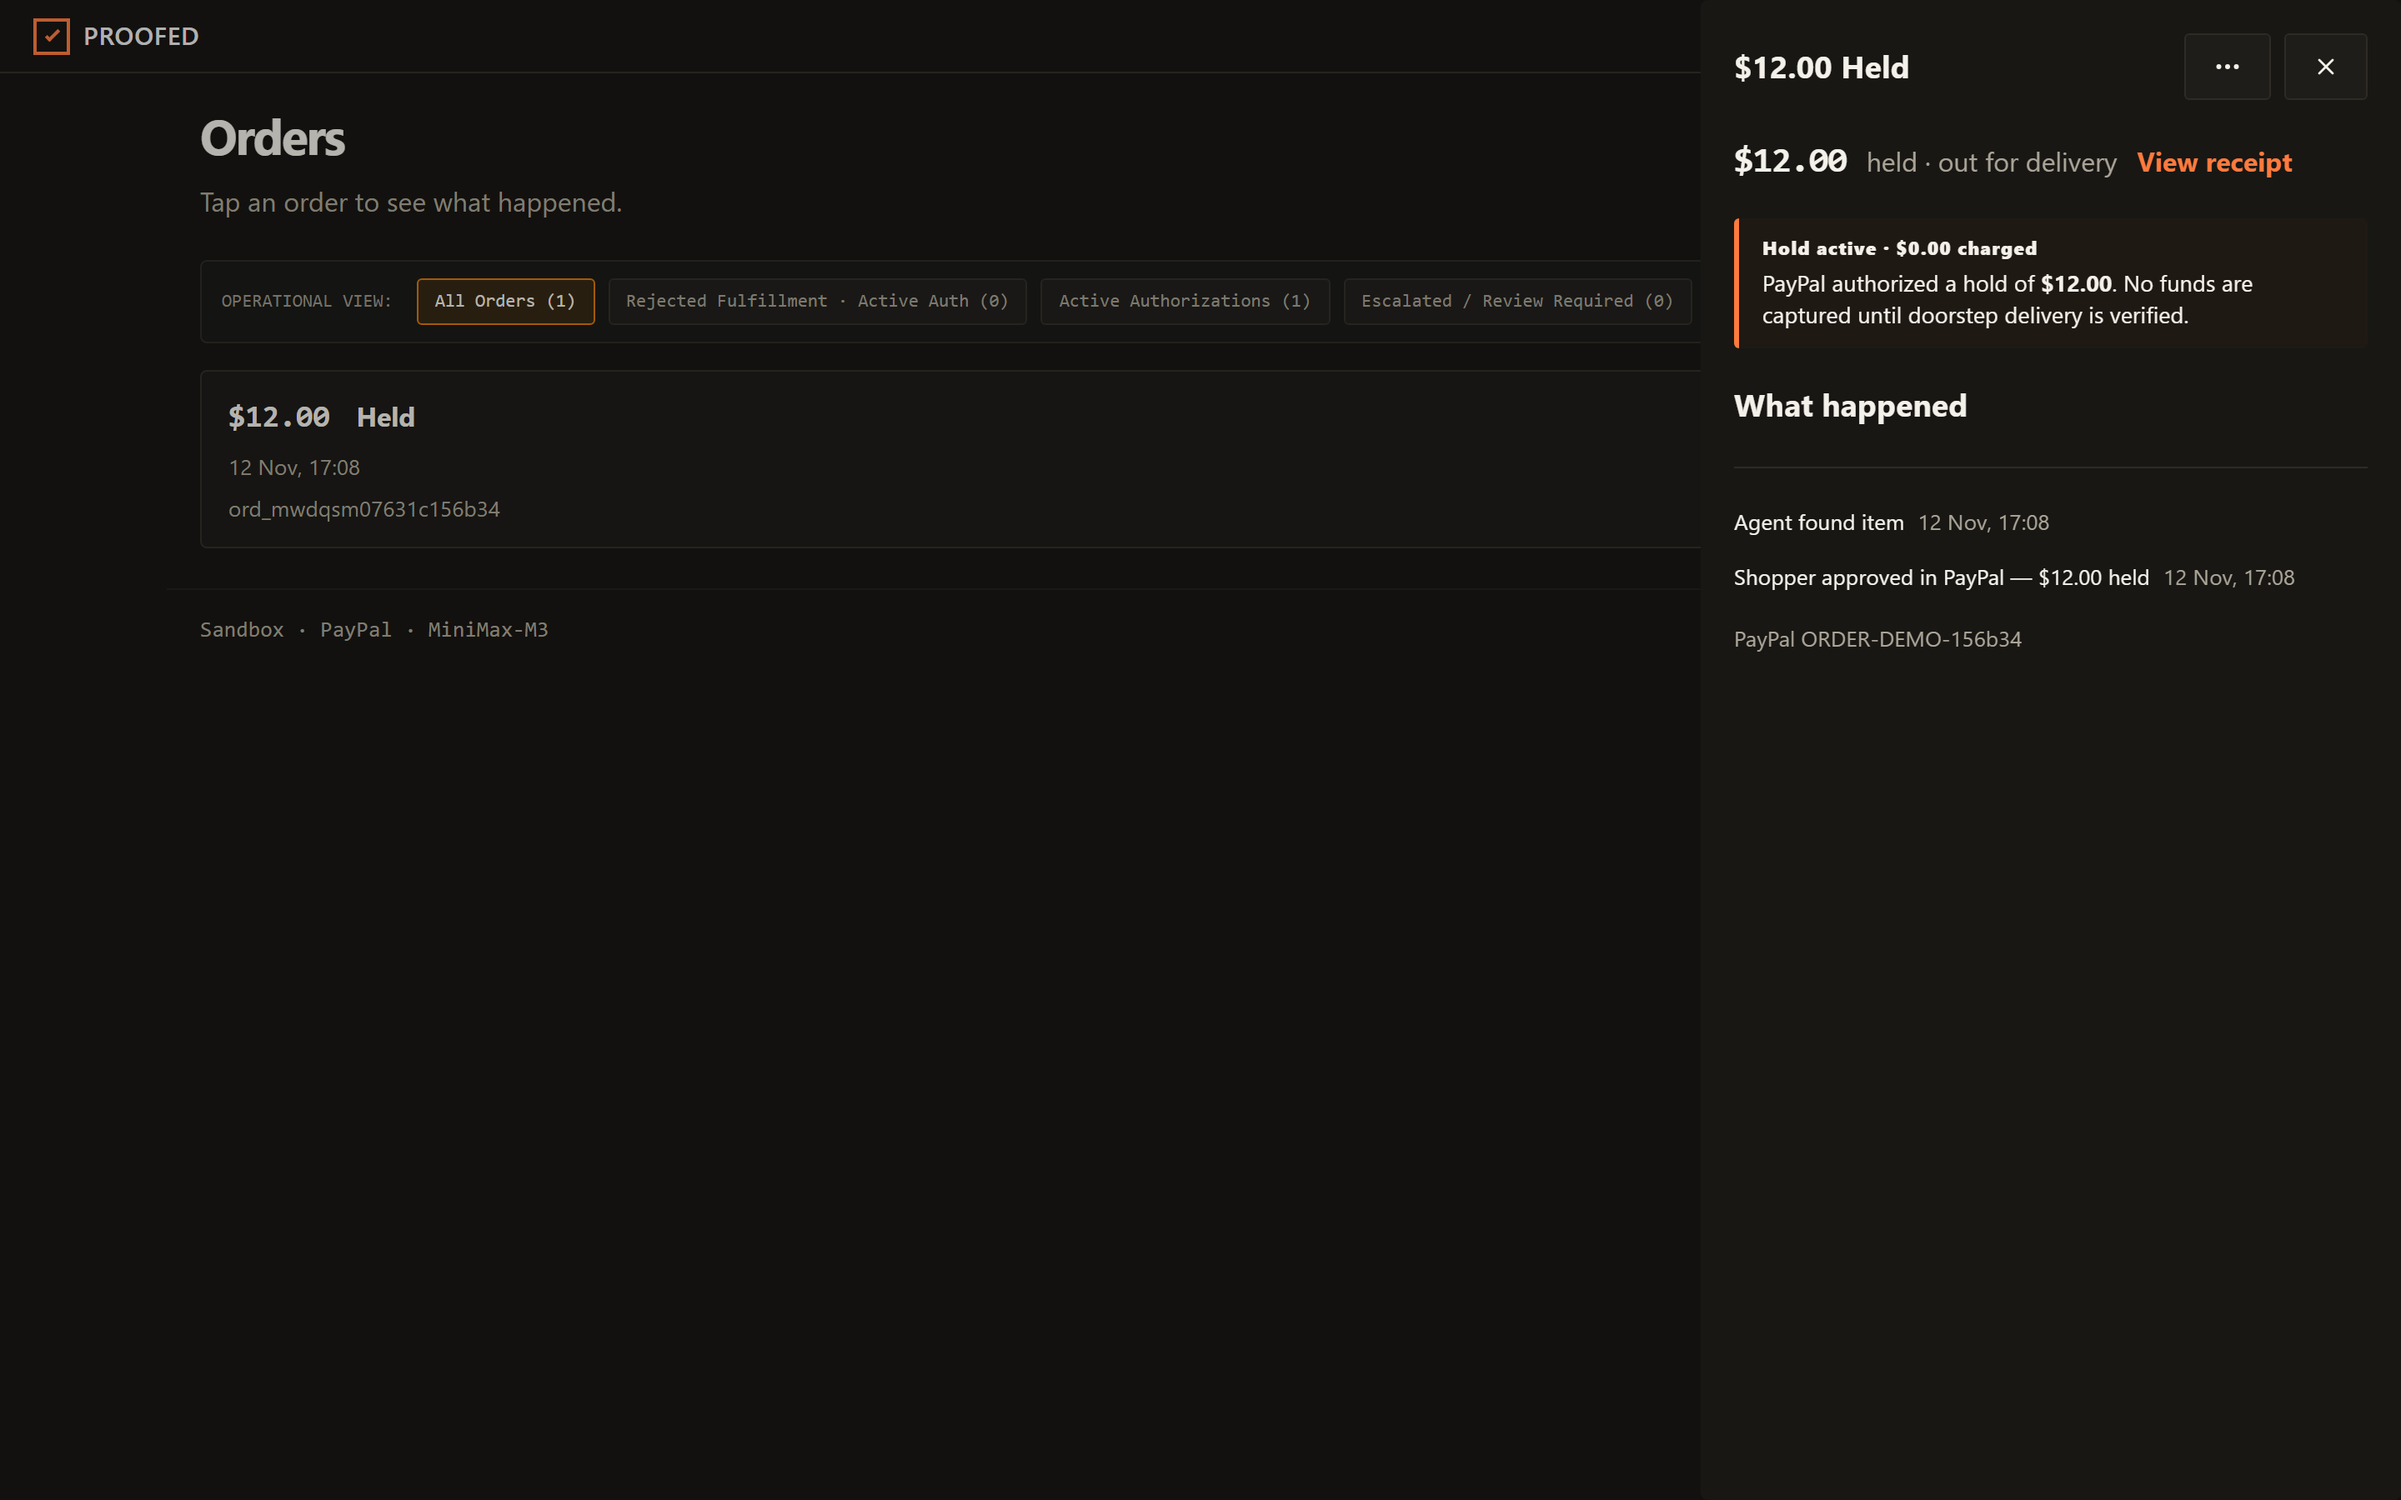
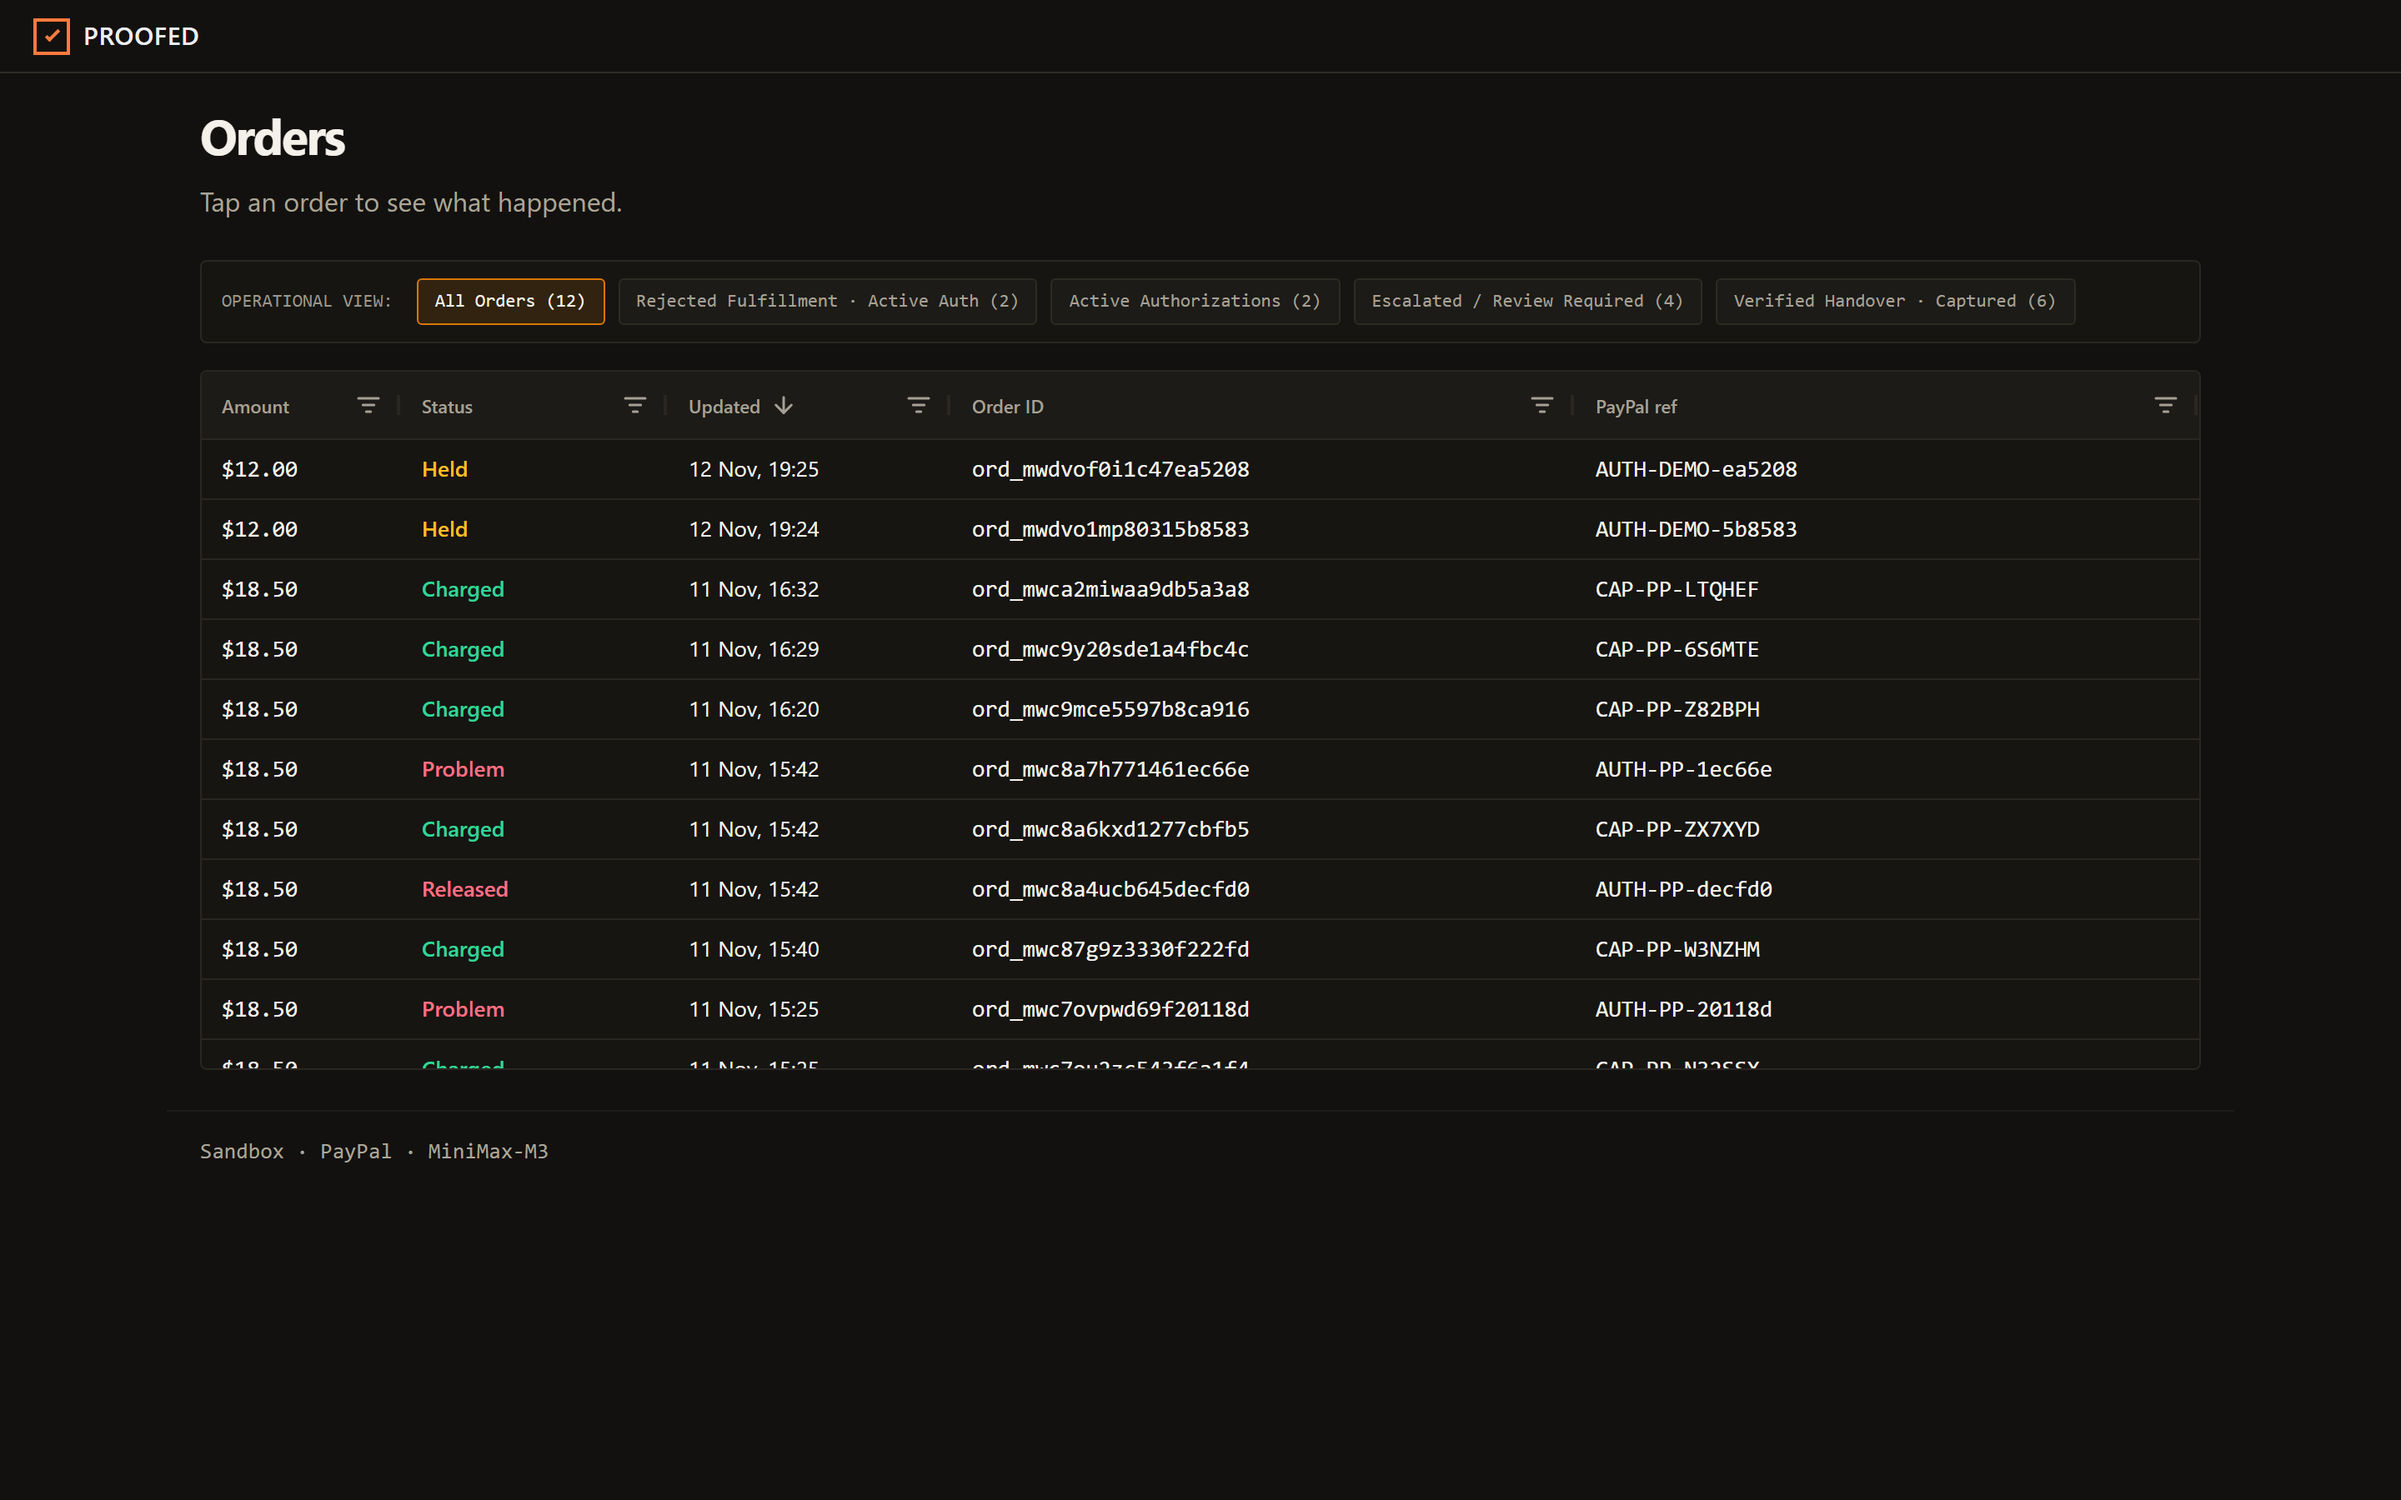
feat(merchant): render order ledger with AG Grid Community

diff --git a/app/components/OrderLedgerGrid.tsx b/app/components/OrderLedgerGrid.tsx
@@ -1,0 +1,123 @@
+"use client";
+
+import { useMemo } from "react";
+import { AgGridReact } from "ag-grid-react";
+import {
+  AllCommunityModule,
+  ModuleRegistry,
+  themeQuartz,
+  type CellKeyDownEvent,
+  type ColDef,
+  type RowClickedEvent,
+} from "ag-grid-community";
+import { formatWhen, statusWord } from "./tx-model";
+
+ModuleRegistry.registerModules([AllCommunityModule]);
+
+export type LedgerOrder = {
+  id: string;
+  status: string;
+  formatted_total: string;
+  paypal_order_id: string | null;
+  paypal_authorization_id: string | null;
+  paypal_capture_id: string | null;
+  created_at: string;
+  updated_at: string;
+};
+
+// Swiss/fintech dark theme: near-sharp radii, warm borders, single amber accent.
+const proofedTheme = themeQuartz.withParams({
+  backgroundColor: "#161512",
+  foregroundColor: "#F4F1EA",
+  headerBackgroundColor: "#1C1B18",
+  headerTextColor: "#A6A095",
+  borderColor: "#2A2722",
+  rowHoverColor: "rgba(217, 119, 6, 0.08)",
+  selectedRowBackgroundColor: "rgba(217, 119, 6, 0.16)",
+  accentColor: "#D97706",
+  borderRadius: 3,
+  wrapperBorderRadius: 4,
+  fontSize: 13,
+  headerFontSize: 11,
+  headerFontWeight: 600,
+  spacing: 6,
+});
+
+const STATUS_COLOR: Record<string, string> = {
+  CAPTURED: "#34D399",
+  AUTHORIZED: "#FBBF24",
+  DELIVERY_CONFIRMED: "#34D399",
+  DELIVERY_FAILED: "#FB7185",
+  VOIDED: "#FB7185",
+  REFUNDED: "#A78BFA",
+};
+
+export function OrderLedgerGrid({
+  orders,
+  selectedId,
+  onSelect,
+}: {
+  orders: LedgerOrder[];
+  selectedId: string | null;
+  onSelect: (order: LedgerOrder) => void;
+}) {
+  const columnDefs = useMemo<ColDef<LedgerOrder>[]>(
+    () => [
+      {
+        headerName: "Amount",
+        field: "formatted_total",
+        width: 120,
+        cellClass: "mono",
+        comparator: (a: string, b: string) =>
+          Number(a.replace(/[^0-9.-]/g, "")) - Number(b.replace(/[^0-9.-]/g, "")),
+      },
+      {
+        headerName: "Status",
+        field: "status",
+        width: 160,
+        valueFormatter: (p) => statusWord(p.value),
+        cellStyle: (p) => ({ color: STATUS_COLOR[p.value as string] ?? "#F4F1EA", fontWeight: 600 }),
+      },
+      {
+        headerName: "Updated",
+        field: "updated_at",
+        width: 170,
+        sort: "desc",
+        valueGetter: (p) => p.data?.updated_at || p.data?.created_at || "",
+        valueFormatter: (p) => (p.value ? formatWhen(p.value) : ""),
+      },
+      { headerName: "Order ID", field: "id", flex: 1, minWidth: 200, cellClass: "mono" },
+      {
+        headerName: "PayPal ref",
+        flex: 1,
+        minWidth: 200,
+        cellClass: "mono",
+        valueGetter: (p) =>
+          p.data?.paypal_capture_id || p.data?.paypal_authorization_id || p.data?.paypal_order_id || "—",
+      },
+    ],
+    [],
+  );
+
+  const defaultColDef = useMemo<ColDef<LedgerOrder>>(() => ({ sortable: true, resizable: true, filter: true }), []);
+
+  return (
+    <div data-testid="order-ledger" style={{ height: 420, width: "100%" }}>
+      <AgGridReact<LedgerOrder>
+        theme={proofedTheme}
+        rowData={orders}
+        columnDefs={columnDefs}
+        defaultColDef={defaultColDef}
+        getRowId={(p) => p.data.id}
+        rowClassRules={{ "ledger-selected": (p) => p.data?.id === selectedId }}
+        onRowClicked={(e: RowClickedEvent<LedgerOrder>) => e.data && onSelect(e.data)}
+        onCellKeyDown={(e: CellKeyDownEvent<LedgerOrder>) => {
+          const key = (e.event as KeyboardEvent | null)?.key;
+          if ((key === "Enter" || key === " ") && e.data) onSelect(e.data);
+        }}
+        animateRows={false}
+        suppressCellFocus={false}
+      />
+    </div>
+  );
+}

diff --git a/app/components/MerchantDesk.tsx b/app/components/MerchantDesk.tsx
@@ -5,6 +5,7 @@ import { MoreHorizontal, X } from "lucide-react";
 import { mergeEvents, mergeOrders } from "@/lib/order-merge";
 import { ConfirmDialog } from "./ConfirmDialog";
 import { EmptyOrderState } from "./EmptyOrderState";
+import { OrderLedgerGrid } from "./OrderLedgerGrid";
 import { TransactionPanel } from "./TransactionPanel";
 import { formatWhen, statusWord, storyEvents } from "./tx-model";
 
@@ -228,16 +229,11 @@ export function MerchantDesk() {
           actionLabel="Open Shop Chat"
         />
       ) : (
-        <div className="order-list">
-          {filteredOrders.map((order) => (
-            <button key={order.id} type="button" className="order-row" onClick={() => setSelected(order)}>
-              <span className="amount">{order.formatted_total}</span>
-              <span className="word">{statusWord(order.status)}</span>
-              <span className="when">{formatWhen(order.updated_at || order.created_at)}</span>
-              <span className="oid">{order.id}</span>
-            </button>
-          ))}
-        </div>
+        <OrderLedgerGrid
+          orders={filteredOrders}
+          selectedId={selected?.id ?? null}
+          onSelect={(row) => setSelected(orders.find((o) => o.id === row.id) ?? null)}
+        />
       )}
 
       {error && <div className="err" style={{ marginTop: 12 }}>{error}</div>}
